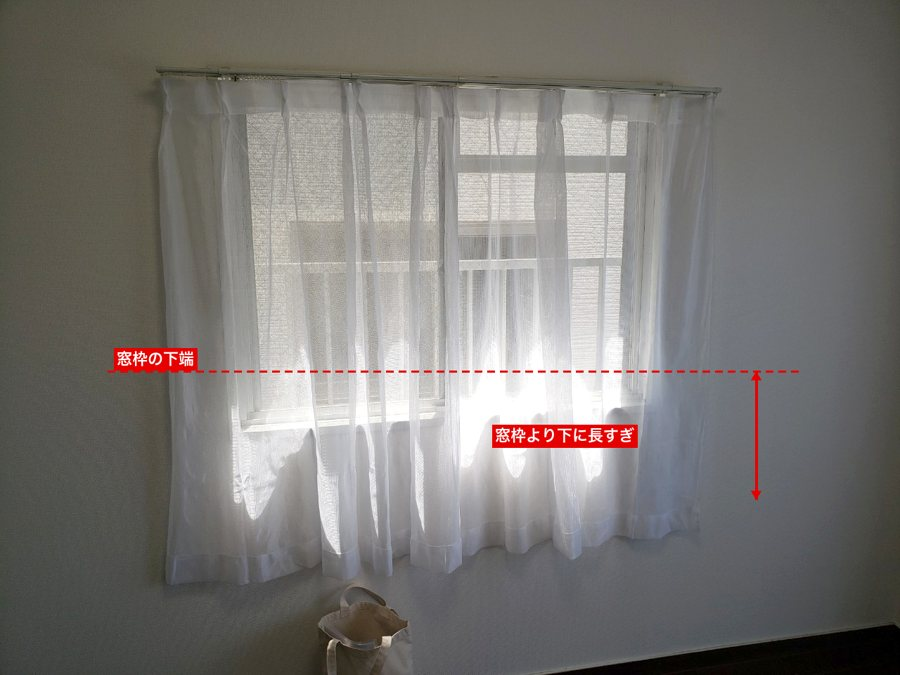
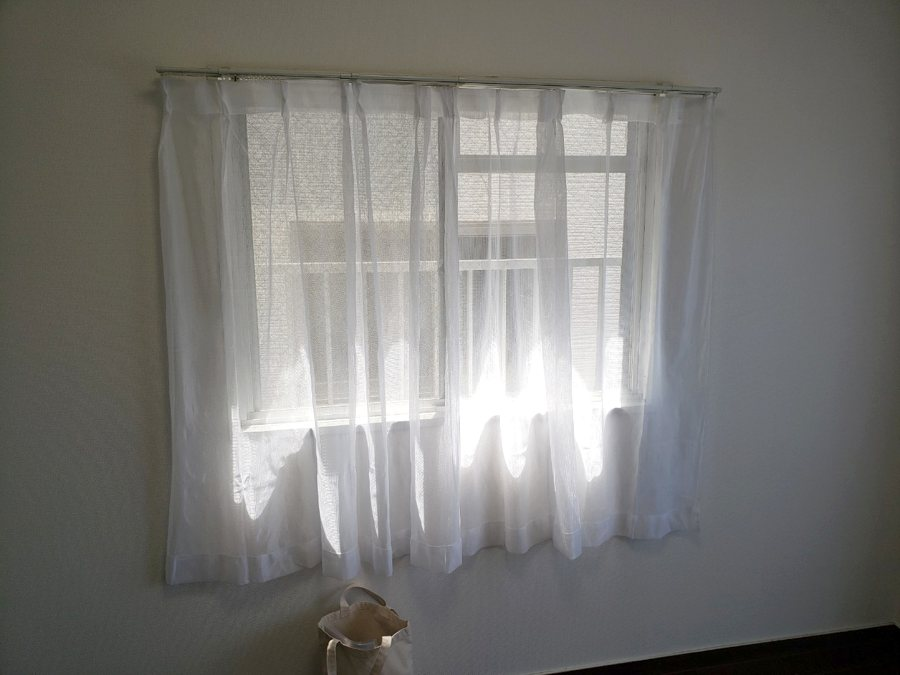
仕様書: ウェルカムバスケットを10番(最後)へ移動／レース失敗例の赤注記を削除
- ウェルカムバスケットを項目5→10へ。シーリング以降を5〜9に振り直し。
- カーテンレース失敗例画像: 窓枠ライン・矢印など赤注記が分かりにくい指摘を受け
  画像内の赤注記を全て削除しクリーンに(明るさ補正のみ)。写真+キャプションで訴求。

Changed region(s): [[0.1244, 0.4978, 0.8711, 0.7467], [0.5289, 0.6222, 0.7156, 0.6844]]

diff --git a/shiyo_kurume.html b/shiyo_kurume.html
@@ -130,27 +130,7 @@
 </div>
 
 <div class="item">
-  <div class="item-h"><span class="no">5</span><span class="ttl">ウェルカムバスケット 設置</span><span class="tag">設置</span></div>
-  <div class="item-b">
-    <div class="row"><div class="k">仕様</div><div class="v">ご契約の入居者様への<b>プレゼント品</b>。内覧時のウェルカム感を出すために設置し、<b>POPを必ず添える</b>。</div></div>
-    <div class="row"><div class="k">中身（例）</div><div class="v">
-      <ul>
-        <li>ゴミ袋（もえるごみ 大）／かご・箱</li>
-        <li>キッチンスポンジ／食器洗剤（JOY）</li>
-        <li>お風呂スポンジ／お風呂洗剤</li>
-        <li>ハンドソープ／除菌クリーナー</li>
-        <li>トイレットペーパー／ティッシュペーパー</li>
-      </ul>
-    </div></div>
-    <div class="photos">
-      <div class="ph"><img src="spec_img/basket_deco.jpg"><div class="cap">ウェルカム感の演出例</div></div>
-      <div class="ph"><img src="spec_img/basket_set.jpg"><div class="cap">中身一式＋POP</div></div>
-    </div>
-  </div>
-</div>
-
-<div class="item">
-  <div class="item-h"><span class="no">6</span><span class="ttl">シーリングライト 設置</span><span class="tag">設置</span></div>
+  <div class="item-h"><span class="no">5</span><span class="ttl">シーリングライト 設置</span><span class="tag">設置</span></div>
   <div class="item-b">
     <div class="row"><div class="k">仕様</div><div class="v">全居室に <b>LEDリモコン付きシーリングライト</b> を設置。</div></div>
     <div class="row"><div class="k">ポイント</div><div class="v">居室の広さに合った明るさ（適合畳数）を選定。リモコン・電池の動作確認まで行う。</div></div>
@@ -161,7 +141,7 @@
 </div>
 
 <div class="item">
-  <div class="item-h"><span class="no">7</span><span class="ttl">カーテンレース 設置</span><span class="tag">設置</span></div>
+  <div class="item-h"><span class="no">6</span><span class="ttl">カーテンレース 設置</span><span class="tag">設置</span></div>
   <div class="item-b">
     <div class="row"><div class="k">仕様</div><div class="v">カーテンレールがある<b>全ての窓</b>にレースカーテンを設置（古い物件のサッシ廻りを隠す）。</div></div>
     <div class="row"><div class="k">寸法基準</div><div class="v">
@@ -178,7 +158,7 @@
 </div>
 
 <div class="item">
-  <div class="item-h"><span class="no">8</span><span class="ttl">カーテンレール 交換</span><span class="tag">交換</span></div>
+  <div class="item-h"><span class="no">7</span><span class="ttl">カーテンレール 交換</span><span class="tag">交換</span></div>
   <div class="item-b">
     <div class="row"><div class="k">対象</div><div class="v">カーテンレールが<b>古い場合</b>（ステンレス製が多い）に取替。</div></div>
     <div class="row"><div class="k">仕様</div><div class="v"><b>白色カーテンレール（2m）</b>を基本使用。窓幅に合わせて選定し、白で統一して清潔感を出す。</div></div>
@@ -191,7 +171,7 @@
 </div>
 
 <div class="item">
-  <div class="item-h"><span class="no">9</span><span class="ttl">トイレットペーパーホルダー 交換</span><span class="tag">交換</span></div>
+  <div class="item-h"><span class="no">8</span><span class="ttl">トイレットペーパーホルダー 交換</span><span class="tag">交換</span></div>
   <div class="item-b">
     <div class="row"><div class="k">仕様</div><div class="v">シングルタイプを<b>棚（物置）付きホルダー</b>へ交換。</div></div>
     <div class="row"><div class="k">タイプ別</div><div class="v">ファミリー物件は<b>ダブルホルダー</b>。単身物件もダブル推奨。</div></div>
@@ -205,7 +185,7 @@
 </div>
 
 <div class="item">
-  <div class="item-h"><span class="no">10</span><span class="ttl">コンセントプレート 交換</span><span class="tag">交換</span></div>
+  <div class="item-h"><span class="no">9</span><span class="ttl">コンセントプレート 交換</span><span class="tag">交換</span></div>
   <div class="item-b">
     <div class="row"><div class="k">対象</div><div class="v">古いタイプ・<b>黄ばんだプレート</b>を新しいものへ交換。</div></div>
     <div class="row"><div class="k">サイズ注意</div><div class="v"><span class="note">「7000番台」はサイズ相違のためNG。正しくは「6000番台」を使用。</span>既存の口数を確認してから取付ける。</div></div>
@@ -215,6 +195,26 @@
       <div class="ph ok"><img src="spec_img/plate_after.jpg"><div class="cap ok">交換後（新品）</div></div>
       <div class="ph ng"><img src="spec_img/plate_ng7000.jpg"><div class="cap ng">NG：7000番台</div></div>
       <div class="ph ok"><img src="spec_img/plate_ok6000.jpg"><div class="cap ok">正：6000番台</div></div>
+    </div>
+  </div>
+</div>
+
+<div class="item">
+  <div class="item-h"><span class="no">10</span><span class="ttl">ウェルカムバスケット 設置</span><span class="tag">設置</span></div>
+  <div class="item-b">
+    <div class="row"><div class="k">仕様</div><div class="v">ご契約の入居者様への<b>プレゼント品</b>。内覧時のウェルカム感を出すために設置し、<b>POPを必ず添える</b>。</div></div>
+    <div class="row"><div class="k">中身（例）</div><div class="v">
+      <ul>
+        <li>ゴミ袋（もえるごみ 大）／かご・箱</li>
+        <li>キッチンスポンジ／食器洗剤（JOY）</li>
+        <li>お風呂スポンジ／お風呂洗剤</li>
+        <li>ハンドソープ／除菌クリーナー</li>
+        <li>トイレットペーパー／ティッシュペーパー</li>
+      </ul>
+    </div></div>
+    <div class="photos">
+      <div class="ph"><img src="spec_img/basket_deco.jpg"><div class="cap">ウェルカム感の演出例</div></div>
+      <div class="ph"><img src="spec_img/basket_set.jpg"><div class="cap">中身一式＋POP</div></div>
     </div>
   </div>
 </div>
